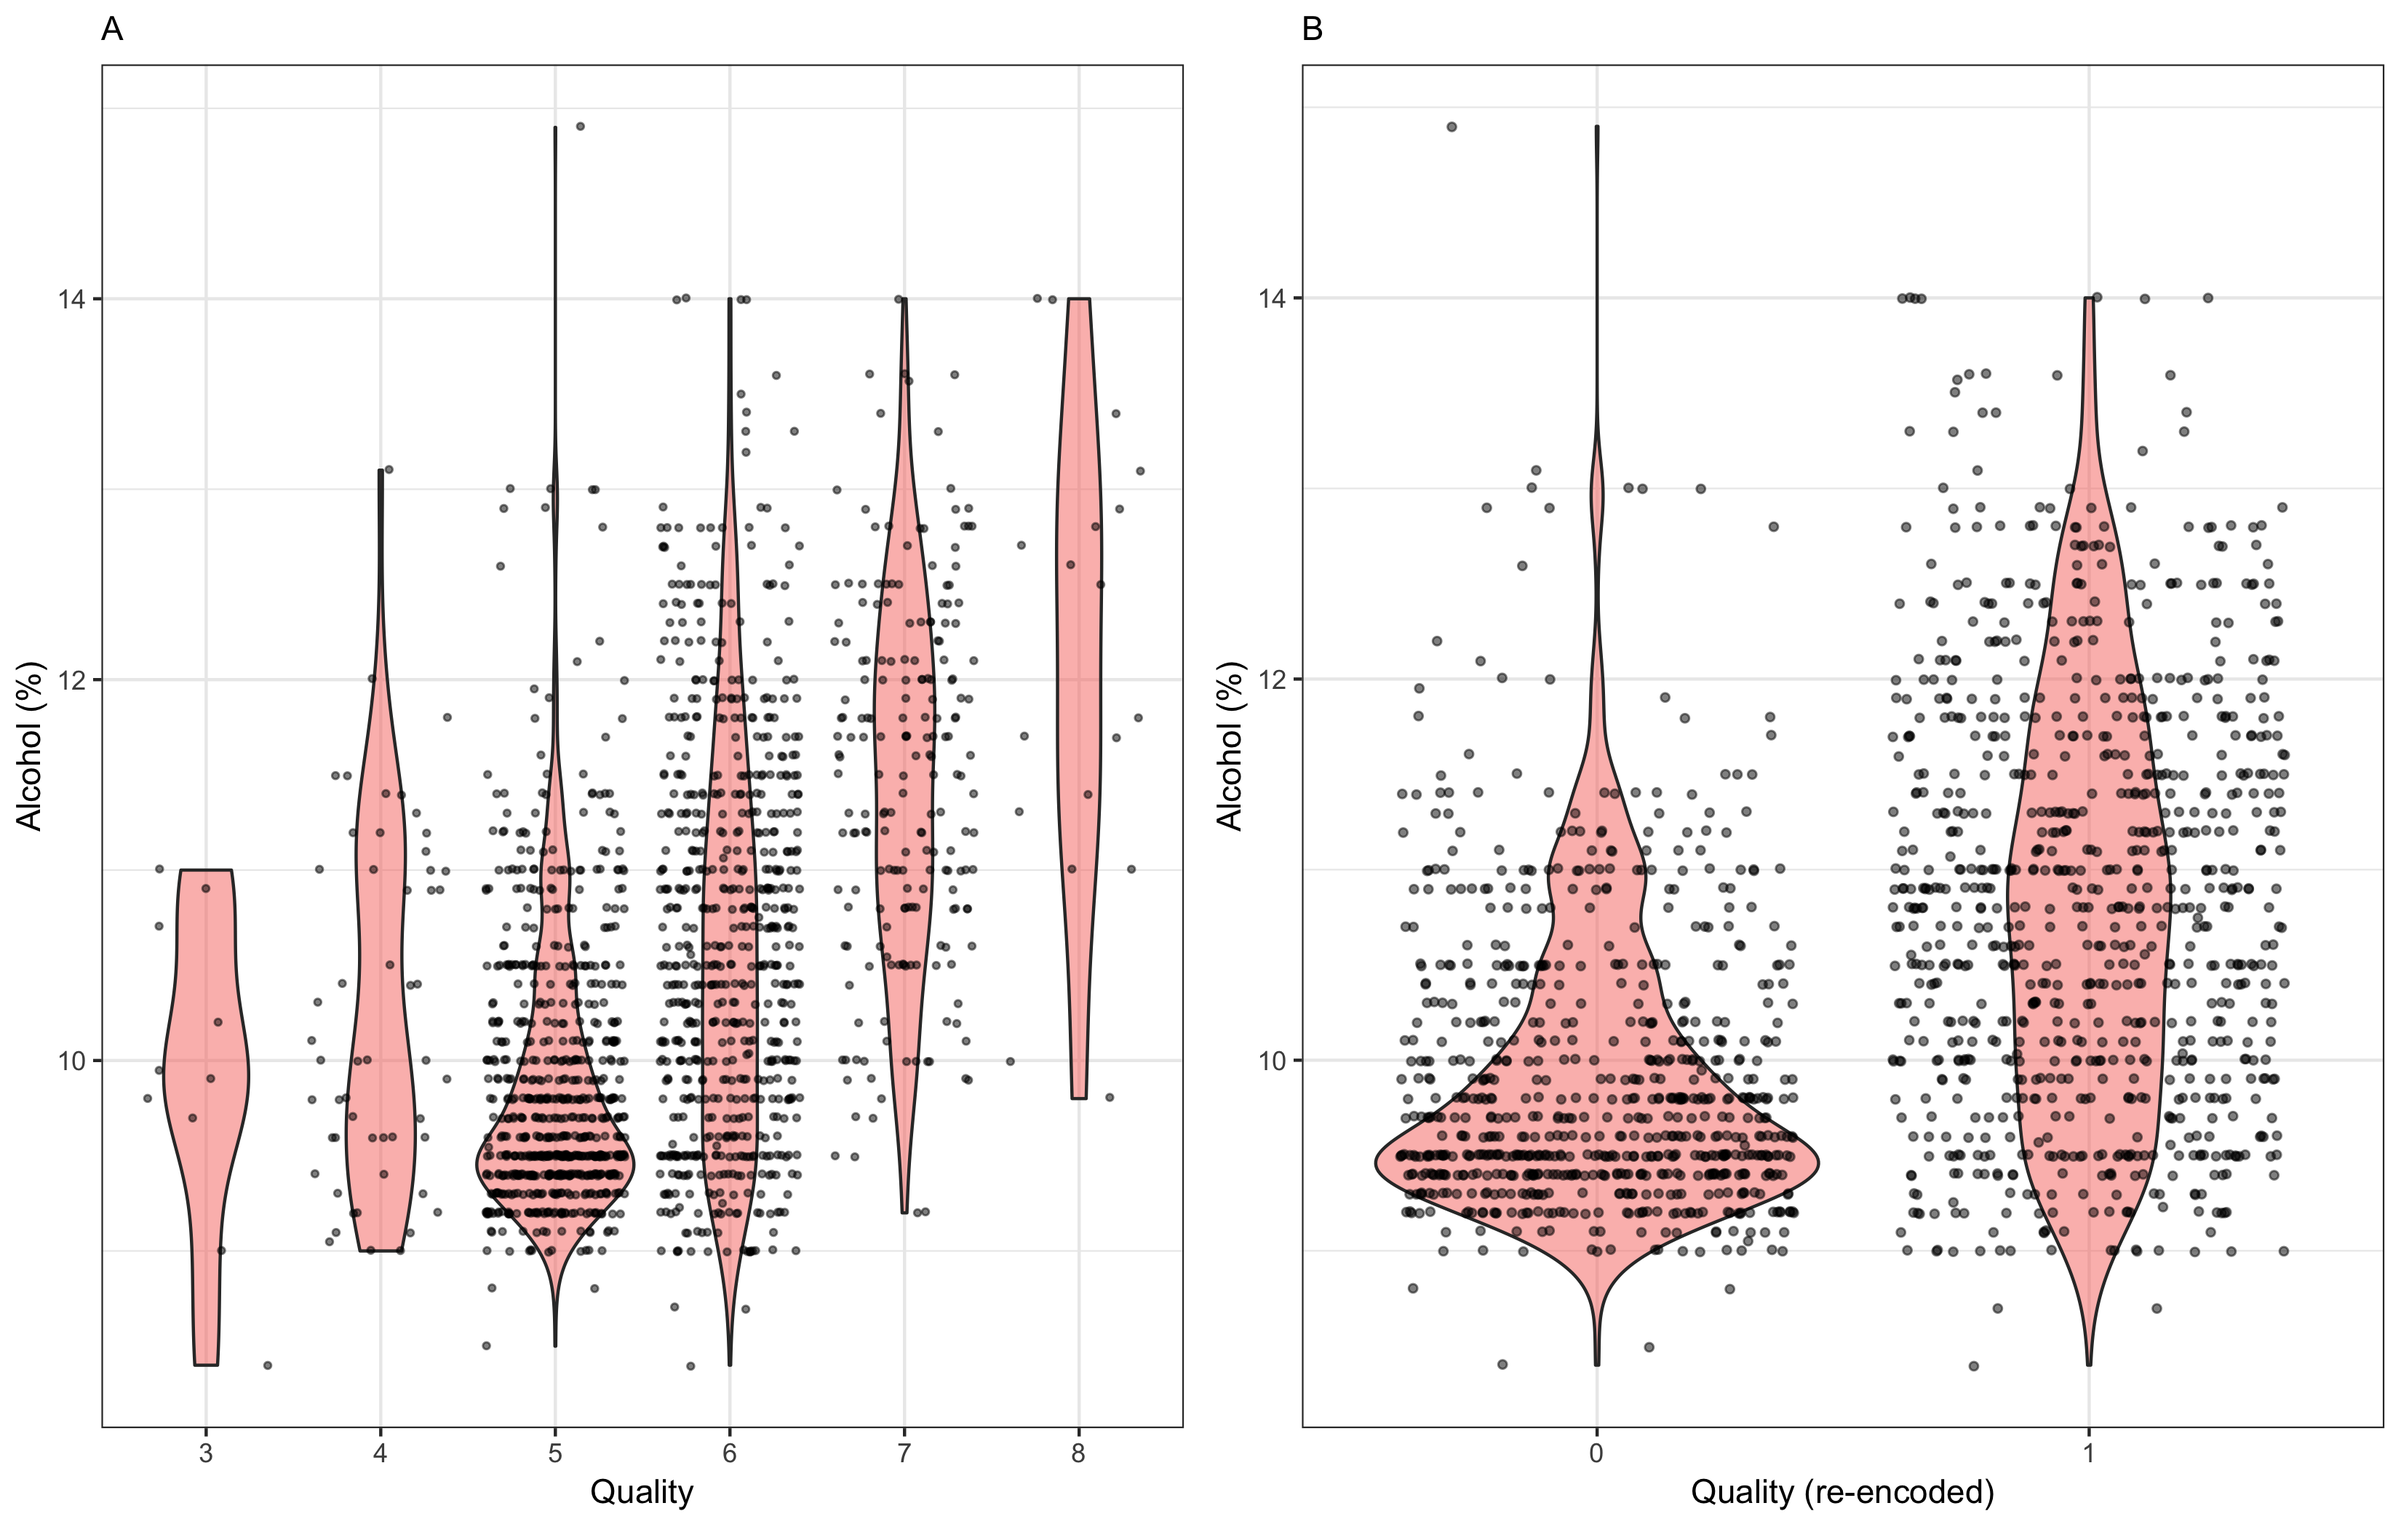
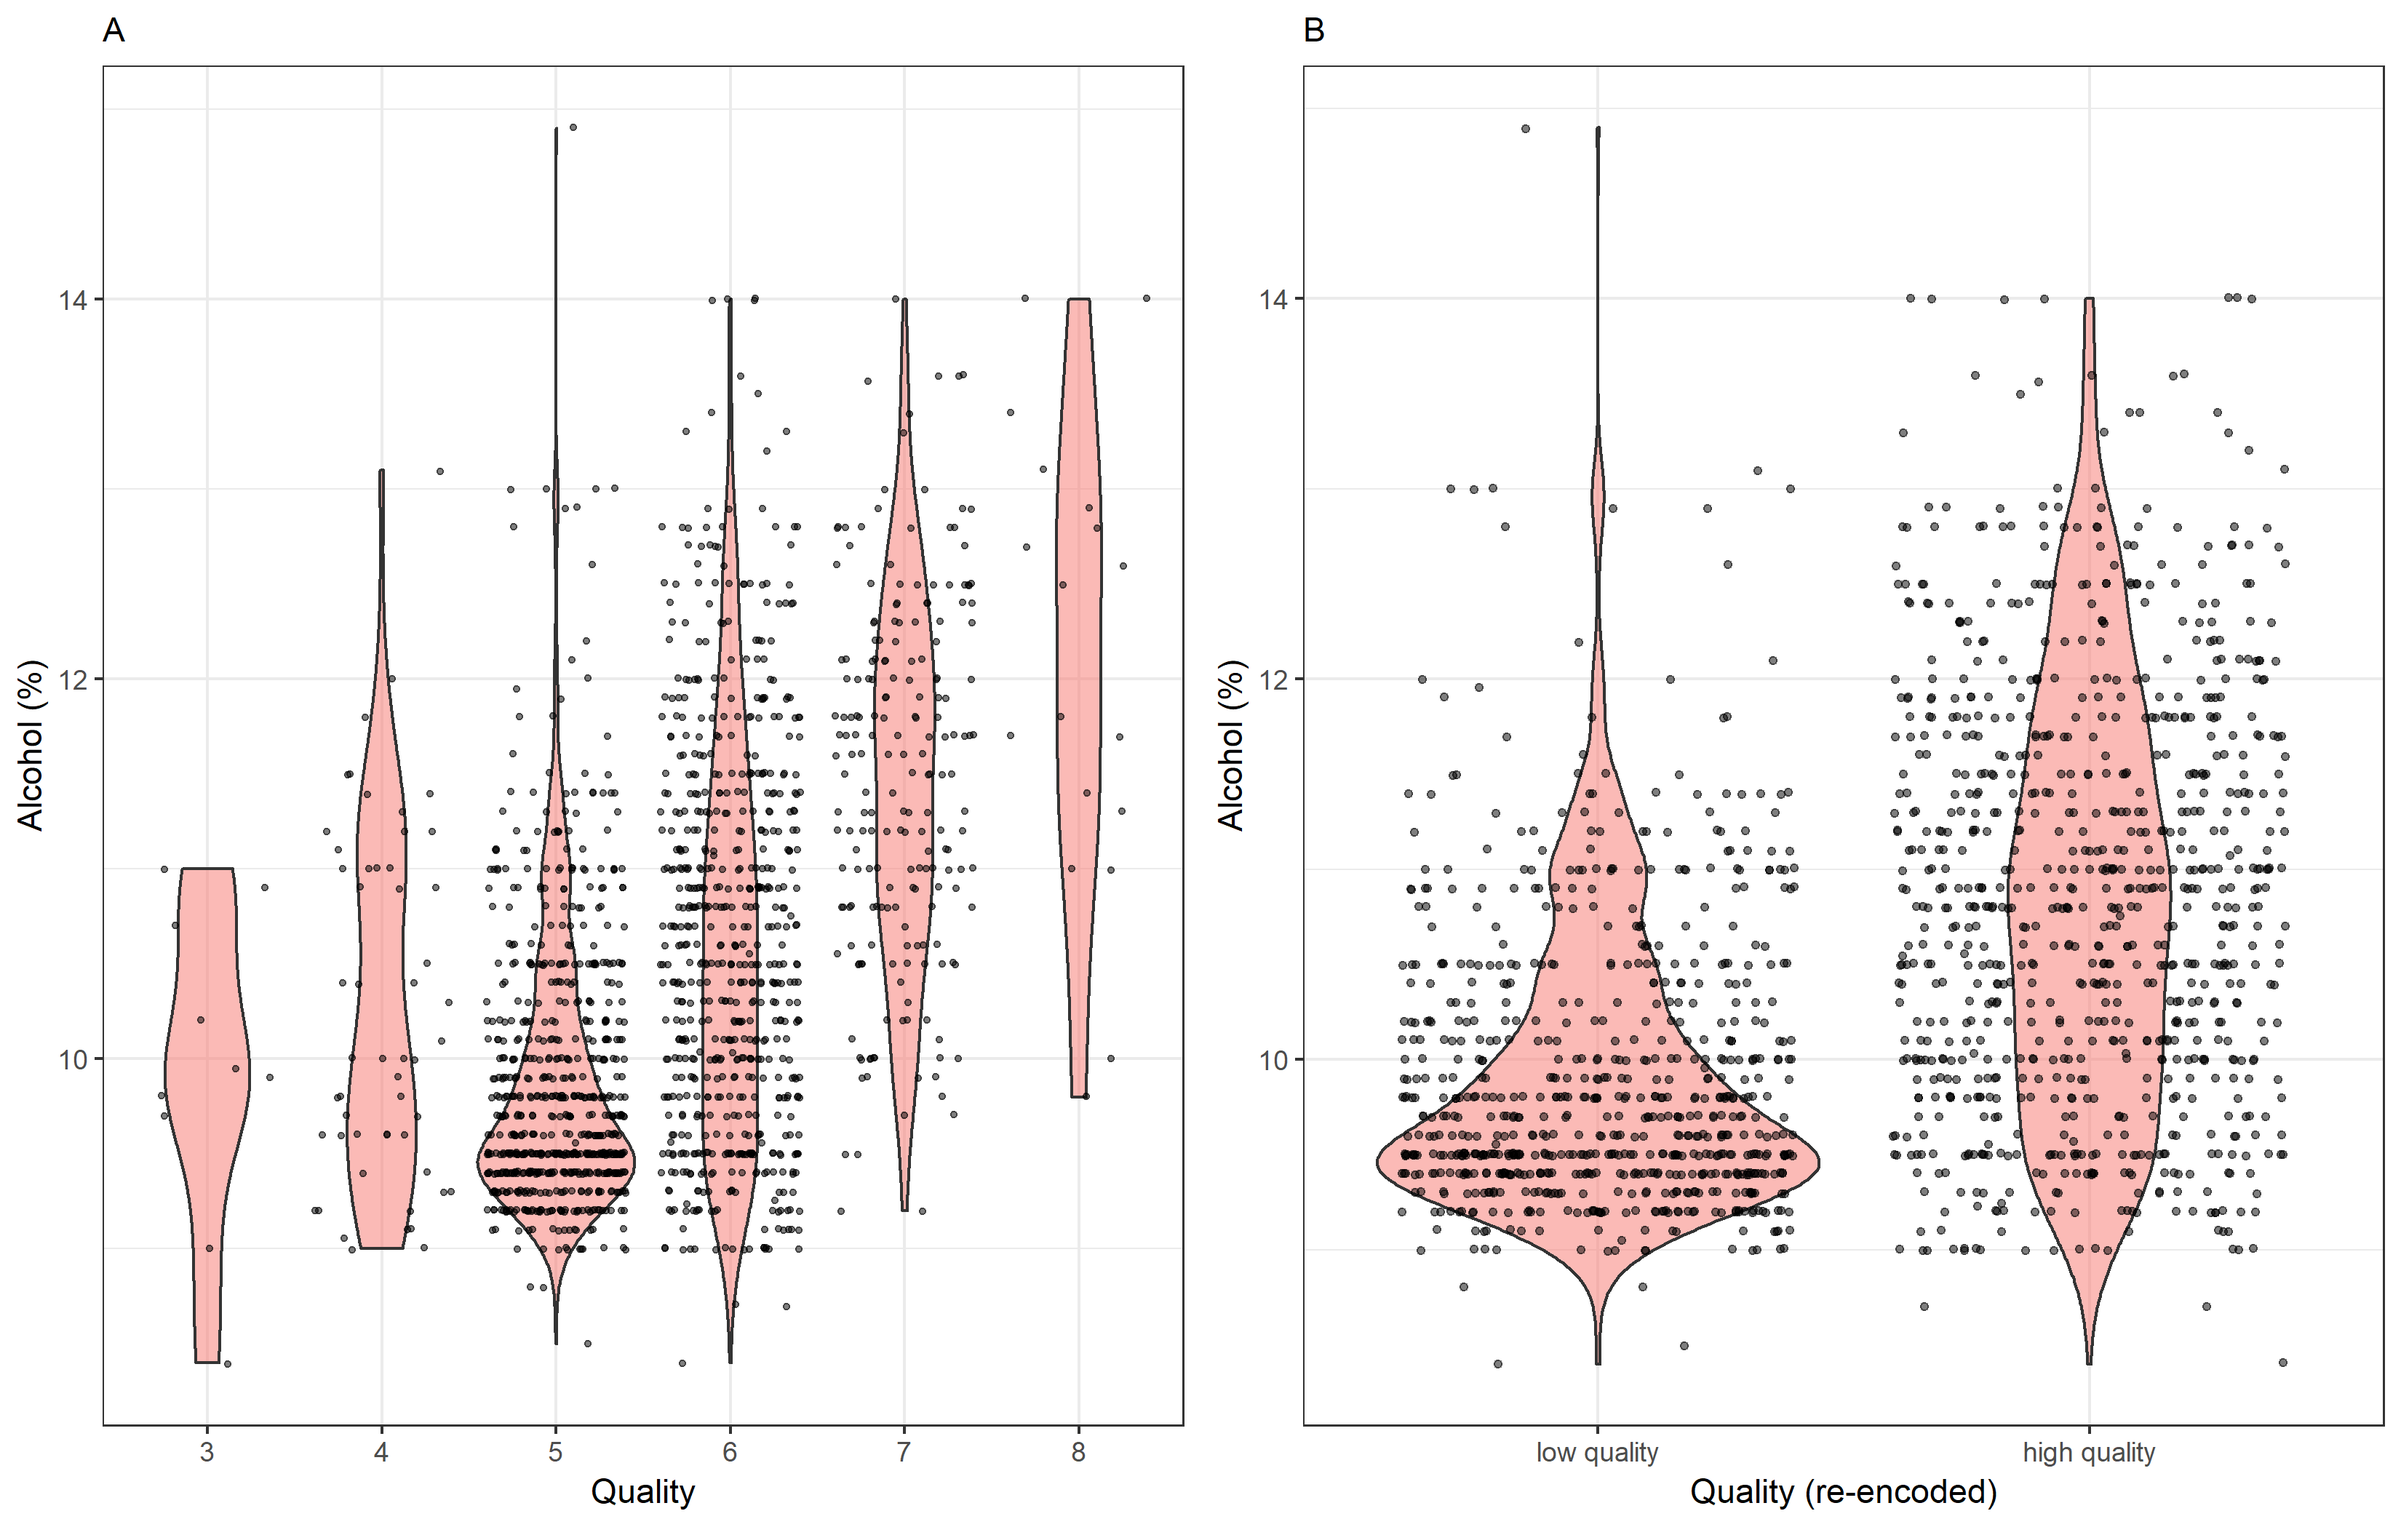
Updated images and reports.

diff --git a/doc/wine_quality_analysis_report.md b/doc/wine_quality_analysis_report.md
@@ -5,7 +5,7 @@ Jingyun Chen & Anthony Chiodo,
 
 ### Introduction
 
-Have you ever attended a dinner party and felt completely clueless when the conversation topic abruptly shifts to the quality of the wine paired with your meal? If so, then you are not alone. Often, the arbitrary labeling of a given wine (i.e. “good” or “bad”) appears to be subject to an everyday consumers palette. And this is OK. It seems that intuitively, an individual should just simply drink the wine that best pleases their own unique taste. However, given the complexity of the wine industry and the degree of professionalism associated with it (wine experts, sommeliers), there clearly must be some characteristics that serve as strong predictors for what ultimately is defined as a quality wine.
+Have you ever attended a dinner party and felt completely clueless when the conversation topic abruptly shifts to the quality of the wine paired with your meal? If so, then you are not alone. Often, the arbitrary labeling of a given wine (i.e. â€œgoodâ€ or â€œbadâ€) appears to be subject to an everyday consumers palette. And this is OK. It seems that intuitively, an individual should just simply drink the wine that best pleases their own unique taste. However, given the complexity of the wine industry and the degree of professionalism associated with it (wine experts, sommeliers), there clearly must be some characteristics that serve as strong predictors for what ultimately is defined as a quality wine.
 
 The purpose of this analysis is to determine which physiochemical characteristics of red wine are the most important predictors of wine quality.
 
@@ -29,7 +29,7 @@ The data set we use to conduct this analysis was downloaded from Kaggle, but ori
 
 **Table 1:** A description of the 11 physiochemical characteristics used as features to predict wine quality. Descriptions provided by [UCI Machine Learning](https://www.kaggle.com/uciml/red-wine-quality-cortez-et-al-2009).
 
-Exploratory data analysis revealed that the distribution of the data across the targets was fairly unbalanced (i.e. many wines were ranked as 5 or 6, and few wines were ranked below 5 or above 6). Since the ranking scale is from 0 to 10 and most of the data existed at ranks 5 and 6, we re-encoded the data such that targets less than or equal to 5 were classified as 0 (or “poor” quality), and targets greater than 5 were classified as 1 (or “good” quality). By converting this to a binary classification problem, the data became more evenly balanced between classes.
+Exploratory data analysis revealed that the distribution of the data across the targets was fairly unbalanced (i.e. many wines were ranked as 5 or 6, and few wines were ranked below 5 or above 6). Since the ranking scale is from 0 to 10 and most of the data existed at ranks 5 and 6, we re-encoded the data such that targets less than or equal to 5 were classified as 0 (or â€œpoorâ€ quality), and targets greater than 5 were classified as 1 (or â€œgoodâ€ quality). By converting this to a binary classification problem, the data became more evenly balanced between classes.
 
 **Figure 1:** A visual representation of the data associated with each class in the original dataset (A), and the re-encoded dataset (B).
 
